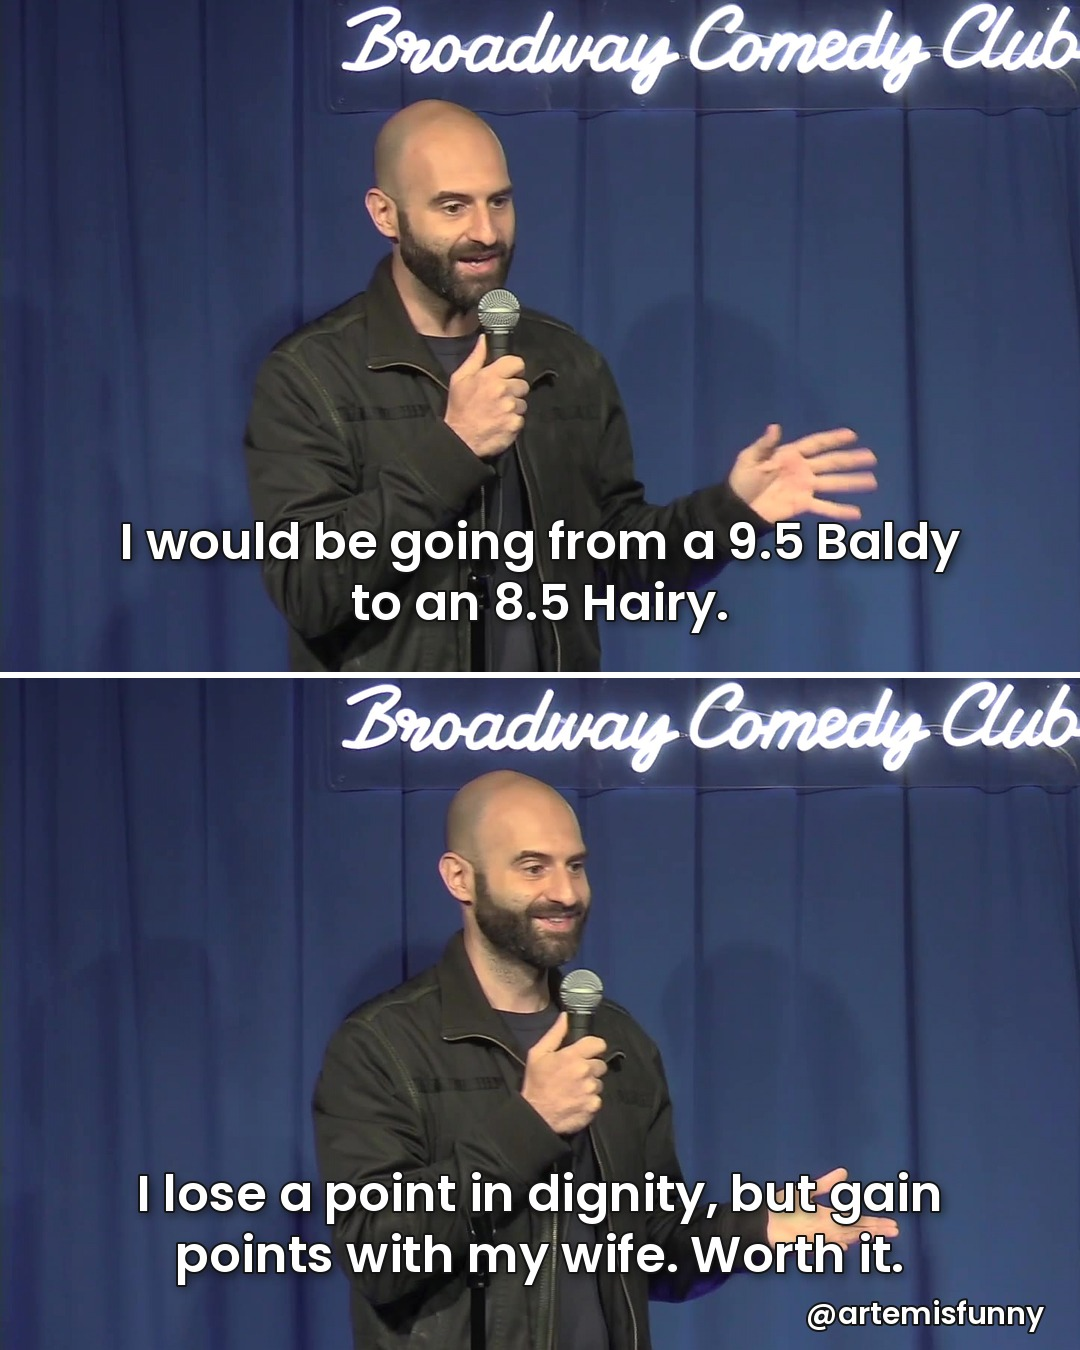
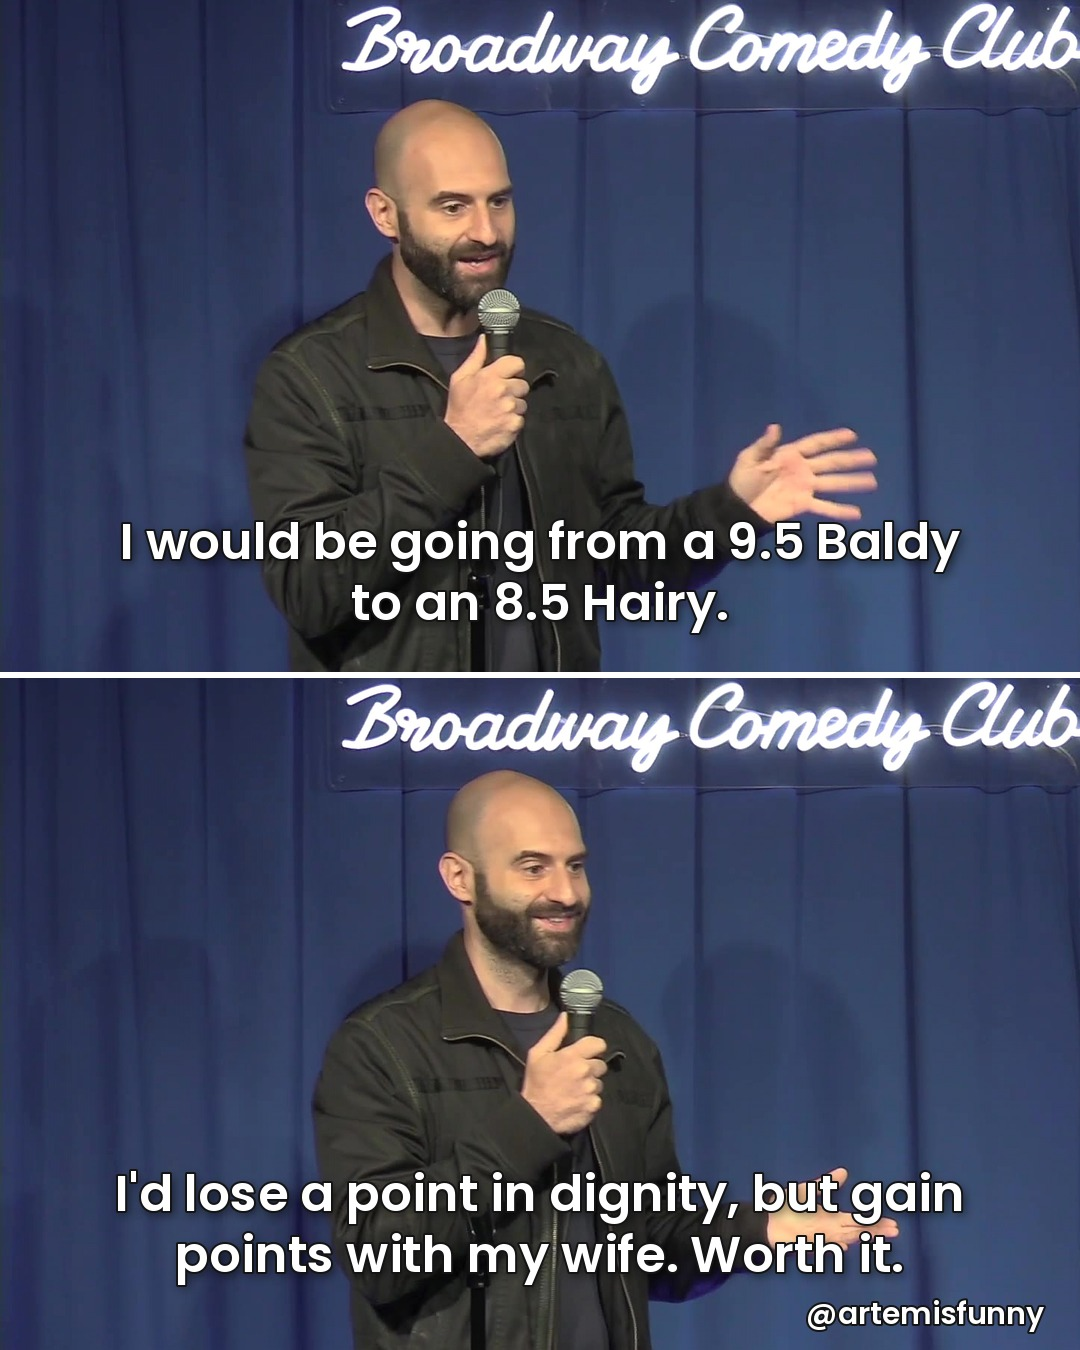
Detransitioning carousel C: 'I'd lose' to match tense
Claude-Session: https://claude.ai/code/session_01EF93tfDE8yfhJqTCuzQwWf

Changed region(s): [[0.0917, 0.8711, 0.9167, 0.9333]]

diff --git a/joke-carousels/detransition-95/captions.md b/joke-carousels/detransition-95/captions.md
@@ -6,7 +6,7 @@ Misdirect: "detransitioning" plants that he's trans, then Turkey and the 9.5 rat
 ## Version C (2026-11-16, punch-up, the one to post)
 Slides: split_detransition_95_C_1.jpg, split_detransition_95_C_2.jpg
 1. "I'm thinking of detransitioning." / "Going to Turkey."
-2. "I would be going from a 9.5 Baldy / to an 8.5 Hairy." / "I lose a point in dignity, but gain points with my wife. Worth it."
+2. "I would be going from a 9.5 Baldy / to an 8.5 Hairy." / "I'd lose a point in dignity, but gain points with my wife. Worth it."
 Stills: neutral/bb_206, neutral/bb_275, smile/bb_182, smile/bb_212. Caption: Personal news.
 A and B below use the older 9.5-from-8.5 wording.
 
